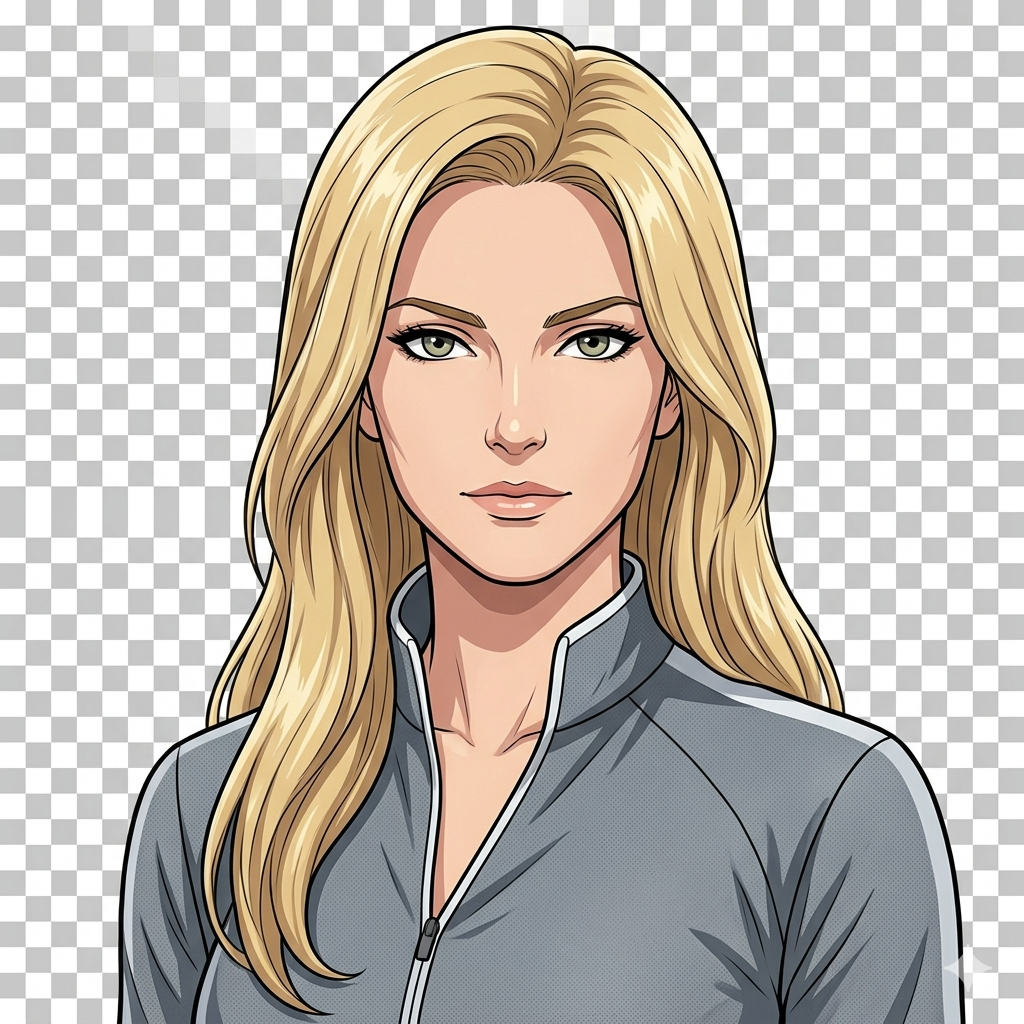
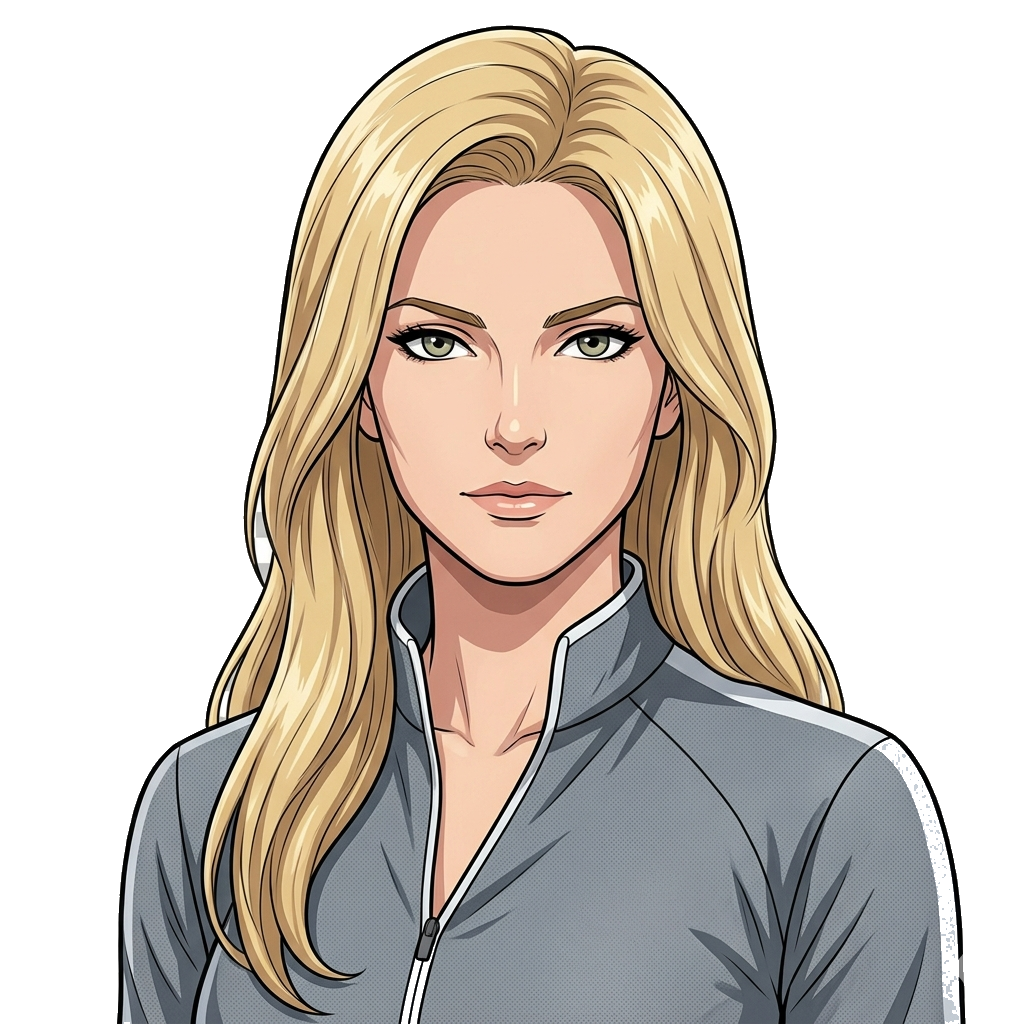
feat: TestFlightフィードバック反映（画像切り抜き・履歴バグ修正・記憶常時抽出ほか）
- トレーナー画像9枚の市松焼き込みを真の透過PNGに変換
  （scripts/remove-checkerboard.py: 外周フラッドフィルで低彩度画素のみ除去。
  服・ハイライトの白は線画に守られて残る）
- 「キャラ変えても前のチャットが残ってる」修正: タブは常時マウントのため
  AITab内でtrainer変化を監視し、state履歴も即クリア（旧キャラ発言が
  新トレーナー刻印で再保存される穴を塞いだ）
- AI記憶のキーワードゲート廃止→毎メッセージ後にバックグラウンド抽出
  （「AI記憶って機能してる？」FB。発火率が低すぎた）
- チャットに定型アクション2ボタン常設（結果フィードバック／メニュー提案）、
  旧QUICK STARTブロックは削除
- 可読性: ライトのテキスト4階調をさらに濃く、本文基準ウェイト500、
  チャット本文15px化、WelcomeModalノート14px化
- display_nameの「さん」二重付け防止（まささんさん対策）

Changed region(s): [[0.0, 0.0, 1.0, 1.0], [0.375, 0.9375, 0.4375, 1.0]]

diff --git a/src/components/ai/AITab.jsx b/src/components/ai/AITab.jsx
@@ -3,7 +3,7 @@ import { useAuth } from '../../hooks/useAuth'
 import { localDateStr } from '../../lib/dates'
 import { hapticImpact, hapticError } from '../../lib/haptics'
 import { listSessions, addPlan, loadChat, saveChat } from '../../lib/localdb'
-import { sendChat, structurePlan, hasMemoryTrigger, extractAndSaveMemories } from '../../lib/aiClient'
+import { sendChat, structurePlan, extractAndSaveMemories } from '../../lib/aiClient'
 import { useCoach } from '../../lib/coachContext'
 
 const TRAINER_GREETINGS = {
@@ -18,10 +18,10 @@ const TRAINER_GREETINGS = {
   BILLY:   'YO！来てくれてサンキュー！一緒に楽しくやっていこうぜ！',
 }
 
-const QUICK_PROMPTS = [
-  '直近のセッションを振り返って',
-  '今日のメニューを相談したい',
-  '来週の計画を立てて',
+// 定型アクション（入力欄の上に常設。自由文を打たずに主要2操作が完結する）
+const QUICK_ACTIONS = [
+  { label: '結果をフィードバック', prompt: '直近のトレーニング結果を振り返って、良かった点と改善点を簡潔に教えて' },
+  { label: 'メニューを提案して', prompt: '直近の記録を踏まえて、次回のトレーニングメニューを具体的に提案して' },
 ]
 
 function hasPlan(text) {
@@ -53,6 +53,18 @@ export default function AITab() {
       chatLoadedRef.current = true
     })
   }, [])
+
+  // タブは常時マウントのため、設定でトレーナーが変わっても再マウントされない。
+  // trainer変化を検知してstateの履歴も即クリアする（旧キャラの発言が新キャラ名で再保存されるのを防ぐ）
+  const prevTrainerRef = useRef(trainer)
+  useEffect(() => {
+    if (prevTrainerRef.current !== trainer) {
+      prevTrainerRef.current = trainer
+      setMessages([])
+      setSavedPlanIdxes(new Set())
+      saveChat([], trainer)
+    }
+  }, [trainer])
 
   useEffect(() => {
     if (chatLoadedRef.current) saveChat(messages, trainer)
@@ -97,10 +109,9 @@ export default function AITab() {
         message: msg, history: messages.slice(-10), profile, recentWorkouts,
       })
       setMessages(prev => [...prev, { role: 'assistant', content }])
-      // 長期記憶の抽出・保存はバックグラウンド（UIを待たせない）
-      if (hasMemoryTrigger(msg)) {
-        extractAndSaveMemories({ message: msg, assistantResponse: content })
-      }
+      // 長期記憶の抽出・保存はバックグラウンド（UIを待たせない）。
+      // 旧キーワードゲートは発火率が低く「記憶が機能していない」FBが出たため毎回実行する
+      extractAndSaveMemories({ message: msg, assistantResponse: content })
     } catch {
       setMessages(prev => [...prev, { role: 'assistant', content: 'エラーが発生しました。もう一度お試しください。' }])
     } finally {
@@ -209,29 +220,6 @@ export default function AITab() {
       {/* ── Messages ── */}
       <div style={{ flex: 1, overflowY: 'auto', padding: '12px 14px 8px' }}>
 
-        {messages.length === 0 && !isLoading && (
-          <div style={{ marginBottom: 8 }}>
-            <div style={{ fontFamily: 'Bebas Neue', fontSize: 10, letterSpacing: 2, color: 'var(--muted)', marginBottom: 8 }}>
-              QUICK START
-            </div>
-            {QUICK_PROMPTS.map((q, i) => (
-              <div
-                key={i}
-                onClick={() => doSend(q)}
-                style={{
-                  padding: '11px 14px', marginBottom: 6,
-                  border: '1px solid var(--border)', background: 'var(--card)',
-                  display: 'flex', justifyContent: 'space-between', alignItems: 'center',
-                  cursor: 'pointer',
-                }}
-              >
-                <span style={{ fontSize: 13, color: 'var(--text-sub)' }}>{q}</span>
-                <span style={{ color: accent, fontFamily: 'Bebas Neue', fontSize: 11, letterSpacing: 1, flexShrink: 0, marginLeft: 8 }}>ASK →</span>
-              </div>
-            ))}
-          </div>
-        )}
-
         {messages.map((msg, i) => (
           <div key={i} style={{ marginBottom: 10 }}>
             <div style={{
@@ -246,7 +234,7 @@ export default function AITab() {
               )}
               <div style={{
                 maxWidth: '75%', padding: '10px 14px',
-                fontSize: 14, lineHeight: 1.7,
+                fontSize: 15, lineHeight: 1.75,
                 ...(msg.role === 'user'
                   ? { background: '#FF6A1A', color: 'var(--on-accent)', fontWeight: 500 }
                   : { background: 'var(--card)', border: '1px solid var(--border)', borderLeft: `2px solid ${accent}`, color: 'var(--text)' }
@@ -313,9 +301,28 @@ export default function AITab() {
       <div style={{
         flexShrink: 0,
         borderTop: '1px solid var(--border)',
-        padding: '12px 16px',
+        padding: '10px 16px 12px',
         background: 'var(--bg)',
       }}>
+        {/* 定型アクション（自由文を打たずに主要操作が完結する） */}
+        <div style={{ display: 'flex', gap: 8, marginBottom: 10 }}>
+          {QUICK_ACTIONS.map((a, i) => (
+            <button
+              key={i}
+              onClick={() => doSend(a.prompt)}
+              disabled={isLoading}
+              style={{
+                flex: 1, padding: '9px 8px',
+                background: 'var(--card)', border: `1px solid ${accent}`,
+                color: accent, fontSize: 12, fontWeight: 700,
+                fontFamily: '"Noto Sans JP", system-ui',
+                cursor: isLoading ? 'default' : 'pointer',
+                opacity: isLoading ? 0.5 : 1,
+                whiteSpace: 'nowrap', overflow: 'hidden', textOverflow: 'ellipsis',
+              }}
+            >{a.label}</button>
+          ))}
+        </div>
         <div style={{ display: 'flex', gap: 8 }}>
           <input
             ref={inputRef}

diff --git a/src/lib/aiClient.js b/src/lib/aiClient.js
@@ -36,18 +36,8 @@ export async function structurePlan({ message, profile }) {
   return JSON.parse(data.content)
 }
 
-// 旧Edge Function v11と同じキーワード判定（該当時のみ抽出APIを呼んでコストを抑える）
-const MEMORY_TRIGGER_KEYWORDS = [
-  '痛', '怪我', '負傷', '苦手', '好き', '嫌い', '目標', '休憩', '休む',
-  '体重', 'やりたい', 'できない', '変えたい', '続けたい', '辞めたい', 'リハビリ',
-  '肩', '膝', '腰', '首', '腕', '足', '背中', '胸', '腹', '不安', '疲れ',
-]
-
-export function hasMemoryTrigger(message) {
-  return MEMORY_TRIGGER_KEYWORDS.some(kw => message.includes(kw))
-}
-
 // 返答後にバックグラウンドで呼ぶ（UIをブロックしない）。保存は端末内。
+// v2.1: キーワードゲートは「記憶が機能していない」FBにより廃止し、毎回抽出する。
 export async function extractAndSaveMemories({ message, assistantResponse }) {
   try {
     const memories = await listMemories()

diff --git a/src/index.css b/src/index.css
@@ -34,10 +34,10 @@
   --border: #D9DFE8;
   --border2: #E3E8EF;
   --border-dash: #C6CEDA;
-  --text: #1A212E;        /* 本文 */
-  --text-sub: #3D4656;    /* サブ本文 */
-  --text-2nd: #5D6880;    /* セカンダリ */
-  --muted: #8A94A6;       /* ラベル・ミュート */
+  --text: #11161F;        /* 本文 */
+  --text-sub: #2C3545;    /* サブ本文 */
+  --text-2nd: #46536B;    /* セカンダリ */
+  --muted: #6B7689;       /* ラベル・ミュート */
   --text-strong: #0B0D10; /* 見出し・最強調（ダークでは白） */
   --on-accent: #0B0D10;   /* オレンジ上のテキスト（両テーマ共通） */
   --err-bg: rgba(200, 50, 50, 0.08);
@@ -76,6 +76,8 @@ body {
   background-color: var(--bg);
   color: var(--text);
   font-family: 'Noto Sans JP', sans-serif;
+  /* ライト地では400が細く見える（可読性FB）。本文の基準ウェイトを1段上げる */
+  font-weight: 500;
   margin: 0;
   padding: 0;
   min-height: 100dvh;

diff --git a/api/ai-chat.js b/api/ai-chat.js
@@ -63,7 +63,7 @@ function buildSystemPrompt(profile, recentWorkouts, memories) {
   const persona = TRAINER_PERSONAS[trainerKey] || TRAINER_PERSONAS.RYOTA
 
   const profileLines = [
-    profile?.display_name && `名前: ${profile.display_name}さん（呼びかけに使う）`,
+    profile?.display_name && `ユーザーの名前: ${profile.display_name}（呼びかけに使う。「さん」等の敬称が既に含まれていれば二重に付けない）`,
     profile?.training_purpose && `目標: ${profile.training_purpose}`,
     profile?.user_level && `レベル: ${profile.user_level}`,
     profile?.current_weight_kg && `現在の体重: ${profile.current_weight_kg}kg`,

diff --git a/src/components/shared/WelcomeModal.jsx b/src/components/shared/WelcomeModal.jsx
@@ -119,7 +119,7 @@ export default function WelcomeModal() {
             padding: '10px 12px', marginBottom: 14,
           }}>
             <div style={{ fontFamily: 'Bebas Neue', fontSize: 10, letterSpacing: 2, color: 'var(--muted)', marginBottom: 6 }}>TODAY'S NOTE</div>
-            <div style={{ fontSize: 13, lineHeight: 1.7, color: 'var(--text-sub)', whiteSpace: 'pre-line' }}>{note}</div>
+            <div style={{ fontSize: 14, lineHeight: 1.7, color: 'var(--text-sub)', whiteSpace: 'pre-line' }}>{note}</div>
           </div>
 
           <button

diff --git a/scripts/remove-checkerboard.py b/scripts/remove-checkerboard.py
@@ -1,0 +1,87 @@
+#!/usr/bin/env python3
+"""トレーナー画像に焼き込まれた市松模様（透過風の偽背景）を実際の透過に変換する。
+
+外周からのフラッドフィルで「グレー〜白の低彩度ピクセル」だけを辿って透過化する。
+キャラクター内部の白（服・ハイライト）は線画で囲まれていて外周から到達できないため残る。
+使い方: python3 scripts/remove-checkerboard.py [ファイル...]（無指定なら public/gazou の *_bu.png + billybu.png）
+"""
+import sys
+from collections import deque
+from pathlib import Path
+
+from PIL import Image
+
+ROOT = Path(__file__).resolve().parent.parent
+GAZOU = ROOT / 'public' / 'gazou'
+
+# 市松の2色（白/ #C9C9C9）とその中間ブレンドを拾う判定
+def is_checker(r, g, b):
+    mx, mn = max(r, g, b), min(r, g, b)
+    return (mx - mn) <= 14 and mn >= 170
+
+
+def process(path: Path):
+    im = Image.open(path).convert('RGBA')
+    w, h = im.size
+    px = im.load()
+
+    removed = bytearray(w * h)
+    q = deque()
+    for x in range(w):
+        for y in (0, h - 1):
+            q.append((x, y))
+    for y in range(h):
+        for x in (0, w - 1):
+            q.append((x, y))
+
+    while q:
+        x, y = q.popleft()
+        if x < 0 or y < 0 or x >= w or y >= h:
+            continue
+        i = y * w + x
+        if removed[i]:
+            continue
+        r, g, b, a = px[x, y]
+        if not is_checker(r, g, b):
+            continue
+        removed[i] = 1
+        q.append((x + 1, y)); q.append((x - 1, y))
+        q.append((x, y + 1)); q.append((x, y - 1))
+
+    # 透過化＋境界1pxを半透過にしてギザつきを和らげる
+    n = 0
+    for y in range(h):
+        for x in range(w):
+            if removed[y * w + x]:
+                r, g, b, a = px[x, y]
+                px[x, y] = (r, g, b, 0)
+                n += 1
+    for y in range(h):
+        for x in range(w):
+            i = y * w + x
+            if removed[i]:
+                continue
+            r, g, b, a = px[x, y]
+            if a == 0:
+                continue
+            for dx, dy in ((1, 0), (-1, 0), (0, 1), (0, -1)):
+                nx, ny = x + dx, y + dy
+                if 0 <= nx < w and 0 <= ny < h and removed[ny * w + nx]:
+                    if is_checker(r, g, b):
+                        px[x, y] = (r, g, b, 110)
+                    break
+
+    im.save(path)
+    print(f'{path.name}: {n}px ({n * 100 // (w * h)}%) を透過化')
+
+
+def main():
+    args = [Path(a) for a in sys.argv[1:]]
+    if not args:
+        args = sorted(GAZOU.glob('*_bu.png')) + [GAZOU / 'billybu.png']
+    for p in args:
+        process(p)
+
+
+if __name__ == '__main__':
+    main()

diff --git a/CLAUDE.md b/CLAUDE.md
@@ -16,7 +16,7 @@
   - エクスポート/インポート: `exportAll()` / `importAll()`（設定タブにJSONエクスポートあり）
 - **AIプロキシ**: `api/ai-chat.js`（Vercel Serverless Function、ステートレス）
   - クライアント（`src/lib/aiClient.js`）がprofile・直近記録・記憶を毎回送る
-  - `format:'structure'`=計画JSON化 / `format:'memory'`=記憶抽出（保存はクライアント）
+  - `format:'structure'`=計画JSON化 / `format:'memory'`=記憶抽出（保存はクライアント。v2.1でキーワードゲート廃止→毎メッセージ後にバックグラウンド抽出）
   - **設定済み: Vercel環境変数 `ANTHROPIC_API_KEY`**（2026-10-10・All Environments・Secretタイプのため値は再表示不可。キーはClaude Consoleの`newironlog-vercel`）
   - 保護: CORS許可オリジン限定 / レート制限（Upstash env設定時は永続・5分30回、未設定はメモリ版フォールバック）/ 簡易トークン（`AI_PROXY_TOKEN`+`VITE_AI_PROXY_TOKEN`をペアで設定時のみ有効）。App Attestは未実装（TODO）
   - ネイティブからは `https://newiron-log.vercel.app/api/ai-chat` を叩く（VITE_AI_ENDPOINTで上書き可）
@@ -120,6 +120,8 @@
 - 色は `src/index.css` のCSS変数のみ使う: `--bg` `--bg-deep` `--card` `--border` `--border2` `--border-dash` `--text` `--text-sub` `--text-2nd` `--muted` `--text-strong` `--on-accent` `--err-*`
 - アクセント: オレンジ`#FF6A1A`、グリーン`#5BC25B`は両テーマ共通のhexリテラル（JSで`${tone}22`等の文字列合成があるためvar化しない）
 - 新規UIにダーク時代のhex（#0B0D10/#13171F/#EEF1F6等）を直接書かない。デザインミラーのみ例外的にダークhexで代表
+- 本文Noto Sans JPの基準ウェイトは500（index.cssのbody。ライト地で400は細く見える）
+- トレーナー画像（public/gazou/*_bu.png）は市松焼き込みを除去し真の透過PNG化済み（scripts/remove-checkerboard.py。新画像追加時も同スクリプトで処理）
 - フォント: Oswald（数字・見出し）、Bebas Neue（ラベル・タグ）、JetBrains Mono（数値）、Noto Sans JP（本文）
 - 角丸なし・シャープ統一（border-radius: 0）
 - モバイルファースト・max-width 430px
@@ -138,7 +140,8 @@
   - ヘッダー: 大型キャラ切り抜き（右下・高さ148px透過PNG）＋吹き出し挨拶（あすけん風ヒーロー）
   - チャット: トレーナー画像アバター＋名前＋オンライン表示
   - プラン検出（3回以上のセット/回/kg表記）→「この計画を保存する」ボタン→planned_sessionsに保存
-  - チャット履歴はトレーナー刻印付きで保存。トレーナー変更後は旧履歴を引き継がない（人格ブリード防止）
+  - チャット履歴はトレーナー刻印付きで保存。トレーナー変更後は旧履歴を引き継がない（人格ブリード防止）。タブは常時マウントのためAITab内でtrainer変化も監視して即クリア
+  - 入力欄の上に定型アクション2ボタン常設（結果フィードバック／メニュー提案）
 - 設定タブ: プロフィール（表示名含む）・AIコーチ（トレーナー選択・コーチへのメモ・AI記憶）・種目管理・テーマ切替・エクスポート/インポート
 - オンボーディング: 質問役はアプリ（IL）。目標・歴＋パーソナリティ5問をスコアリングして相性の良いトレーナーを推薦（設定で変更可）
 
